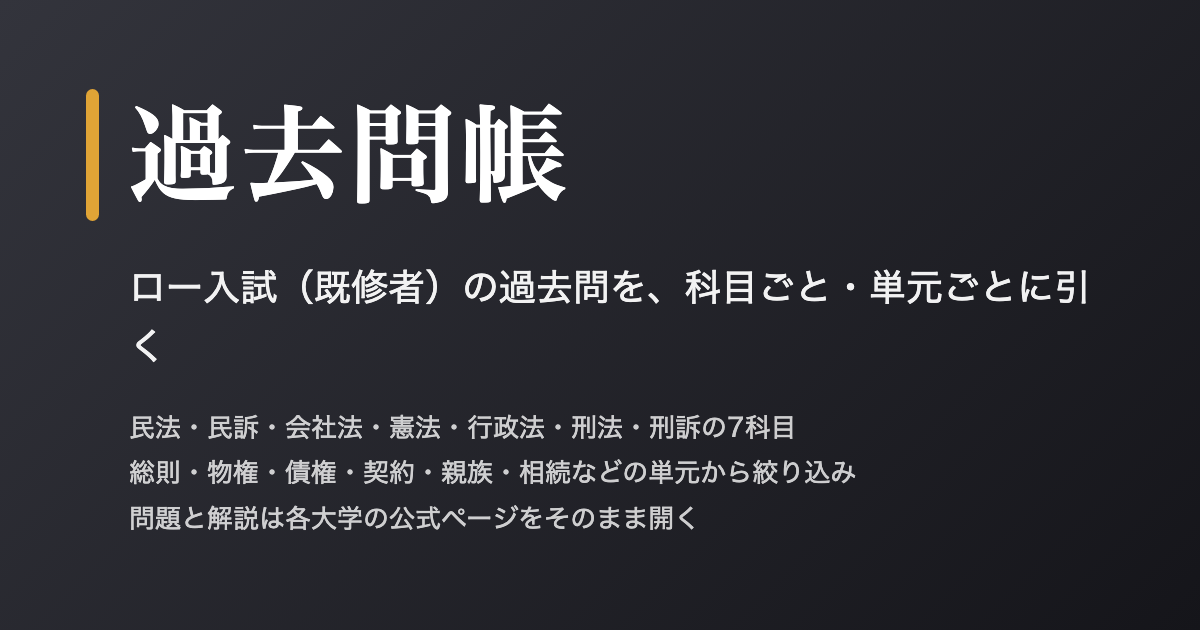
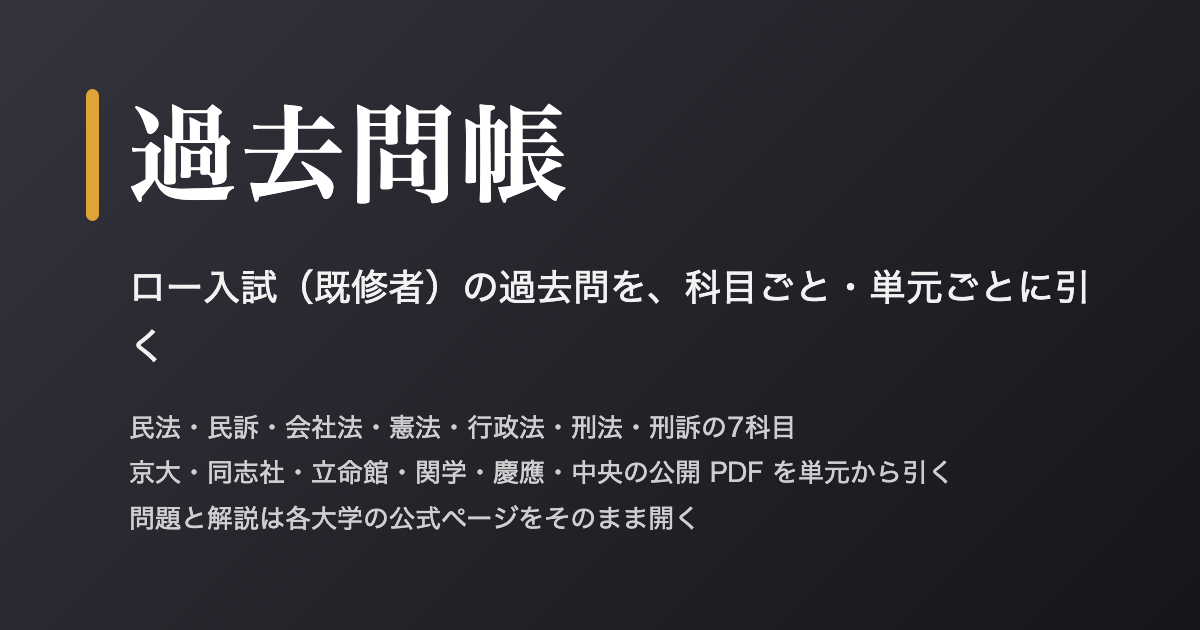
OG 画像の説明文を入口ページ向けに直す
民法版から複製したままで「総則・物権・債権…」と民法の単元が並んでいた。

Changed region(s): [[0.0925, 0.7238, 0.8017, 0.7841]]

diff --git a/tools/make_assets.py b/tools/make_assets.py
@@ -63,7 +63,7 @@ OG_HTML = f"""<body style="margin:0;width:1200px;height:630px;
   </div>
   <div style="font-size:26px;margin:30px 0 0 43px;line-height:1.75;opacity:.78">
     民法・民訴・会社法・憲法・行政法・刑法・刑訴の7科目<br>
-    総則・物権・債権・契約・親族・相続などの単元から絞り込み<br>
+    京大・同志社・立命館・関学・慶應・中央の公開 PDF を単元から引く<br>
     問題と解説は各大学の公式ページをそのまま開く
   </div>
 </div></body>"""
